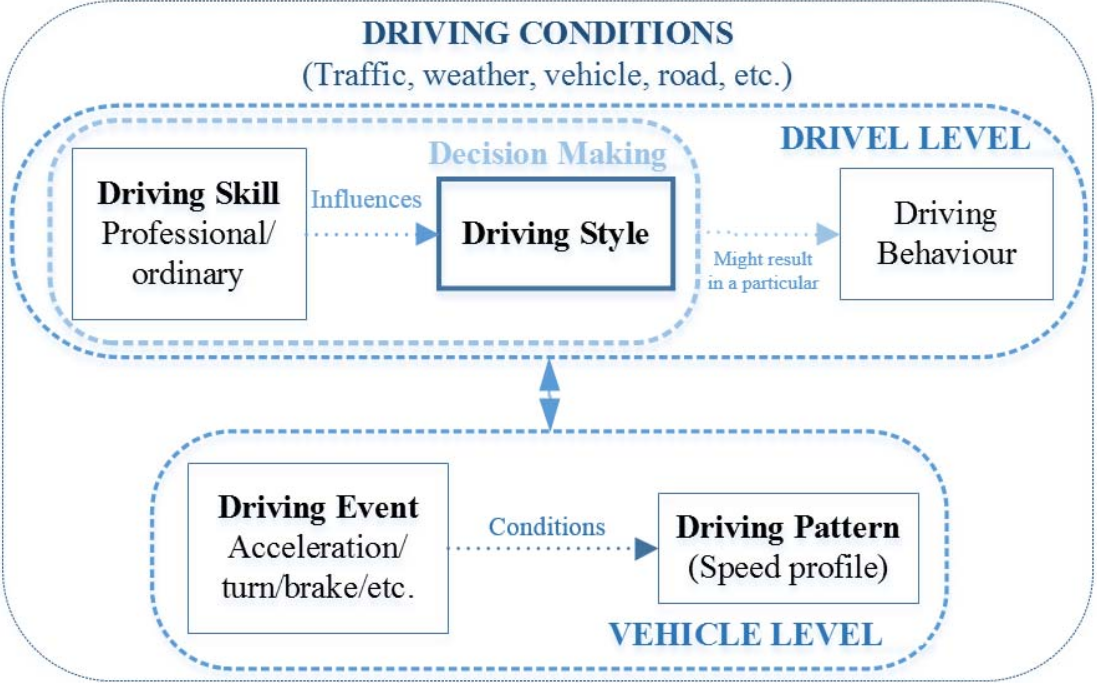
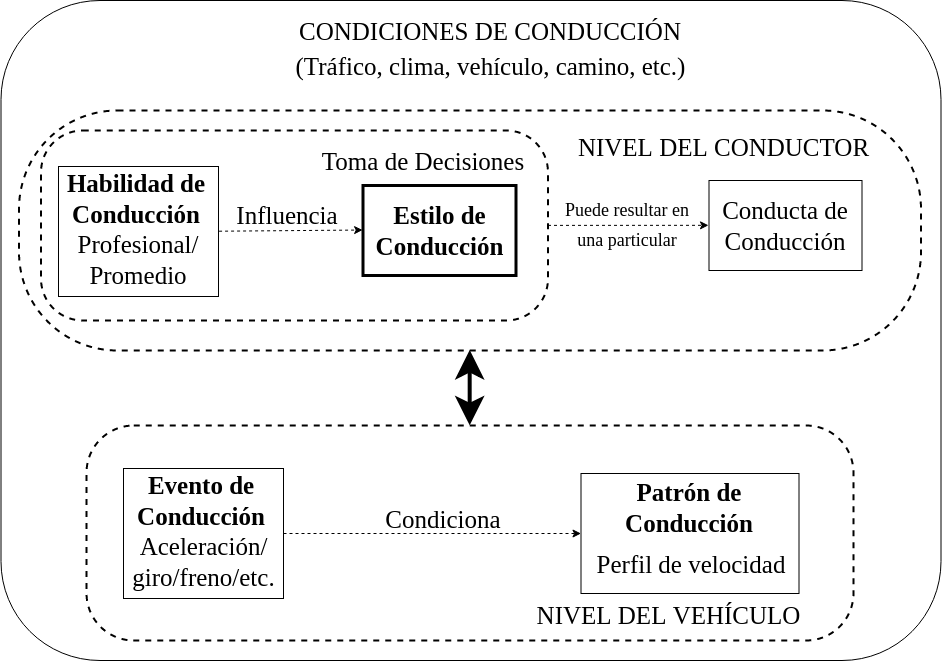
Intruduccón terminada y avance del estado del arte

diff --git a/Chapter2/chapter2.tex b/Chapter2/chapter2.tex
@@ -13,12 +13,12 @@
 
 \section{Términos relacionados con el estilo de conducción}
 
-El concepto de "Estilo de conducción" no tiene una definición estándar que sea aceptada en todo el mundo. Al contrario, este concepto involucra una serie de factores que aumentan su complejidad y complican su definición. Debido a esto se usarán los conceptos definidos en \cite{8002632}.
+El concepto de "Estilo de conducción" no tiene una definición estándar que sea aceptada en todo el mundo. Al contrario, este concepto involucra una serie de factores que aumentan su complejidad y complican su definición. Debido a esto se usarán los conceptos definidos por \citeauthor{8002632} \cite{8002632}.
 
 \begin{figure}[htbp!]
 \centering
 \includegraphics[width=0.8\textwidth]{Fig1}
-\caption[Terminología estilo de conducción]{Terminología relacionada con el estilo de conducción}
+\caption[Terminología estilo de conducción]{Terminología relacionada con el estilo de conducción \cite{8002632}}
 \label{fig:1}
 \end{figure}
 
@@ -26,7 +26,7 @@ Como se aprecia en la Fig~\ref{fig:1} \mynote{Traducir el gráfico} se entiende 
 
 De la misma manera, El patrón de conducción se define como el resultado de los eventos de conducción sujetos a condiciones de manejo, como el clima o el tipo de calzada. Este resultado se puede expresar como un perfil de velocidades. en el que están incluidos todos los datos que se pueden obtener partiendo de este perfil de velocidad, como por ejemplo: duración del viaje, velocidad promedio y demanda de potencia calculada.
 
-La habilidad de manejo, es la habilidad que posee el conductor para controlar el vehículo. Este concepto se usa para diferenciar entre un conductor experimentado o profesional de un conductor promedio.
+La habilidad de conducción, es la habilidad que posee el conductor para controlar el vehículo. Este concepto se usa para diferenciar entre un conductor experimentado o profesional de un conductor promedio.
 
 El estilo de conducción es más complejo de definir debido a que para algunos autores involucra factores subjetivos como la actitud del conductor, el humor o el cansancio. Para \citeauthor{6957822} \cite{6957822}, el estilo de conducción  es la manera en la que la tarea de conducción es realizada. Esto se traduce a la forma en la que el conductor opera el vehículo (Pedal de aceleración, timón, freno, etc.). Esto se diferencia de el patrón de conducción tan solo porque no se asocia con un recorrido en especifico sino con el conductor.
 
@@ -38,7 +38,8 @@ Se procederá a mostrar las implementaciones e investigaciones desarrolladas en 
 \subsection{Algoritmos basados en reglas}
 Dentro de esta categoría se encuentran algoritmos de clasificación basados en reglas que comprenden el uso de lógica difusa, lógica difusa adaptativa y algoritmos de agrupamiento.
 
-citeauthor{6957822} \cite{6957822} desarrollo un sistema de reconocimiento de patrones de manejo online usando lógica difusa. Este sistema esta implementado usando {\it Matlab/Simulink}  y es totalmente paramétrico. Se puede configurar para ser usado en distintos tipos de vehículos.
-El sistema dete
+\citeauthor{6957822} \cite{6957822} desarrollo un sistema de reconocimiento de patrones de manejo online usando lógica difusa. Este sistema esta implementado usando {\it Matlab/Simulink}  y es totalmente paramétrico. Se puede configurar para ser usado en distintos tipos de vehículos.
+El sistema determina a través de un Sistema de Navegación el tipo de calzada en el que se encuentra (Se distingue entre trocha, calles urbanas, carreteras pavimentadas y carreteras rurales). Esto lo realiza debido a que el tipo de calzada influencia en gran medida al estilo de conducción. Por ejemplo, en una trocha la mayoría de conductores manejarían a una velocidad suave para no dañar al vehículo.
+Usando Lógica Difusa se definieron 3 niveles de estilo de conducción: {\it Normal, Confortable y Deportivo}. Se probó el sistema en una simulación y se obtuvieron los siguientes resultados: 68\% de clasificaciones correctas y solo 2\% de clasificaciones incorrectas (El otro 30\% pertenece a clasificaciones "diferenciales" que daban un resultado cercano al real)
 
 

diff --git a/Introduccion/introduccion.tex b/Introduccion/introduccion.tex
@@ -5,9 +5,9 @@
 
 En la actualidad vivimos con una importante preocupación, la contaminación ambiental. Las consecuencias que podría generar en nuestro planeta pueden ser muy graves. Una de las principales causas de la contaminación ambiental es la emisión de gases de efecto invernadero. El CO\textsubscript{2} es uno de estos gases y es el resultado de una de las actividades más cotidianas del mundo, El transporte.
 
-Esta actividad está liderada por el uso de combustibles fósiles y aunque los autos eléctricos han empezado a ganar terreno en el sector automovilístico, estos aún representan tan solo el 1.3\% de las ventas totales de autos en el mundo. \mynote{Aquí falta poner la referencia} El transporte se registró como la fuente mas grande de emisión de CO\textsubscript{2} en el 2016 en Europa y Estados Unidos con el 27\% y 28\% de las emisiones de gases de efectos invernadero respectivamente.
+Esta actividad está liderada por el uso de combustibles fósiles y aunque los autos eléctricos han empezado a ganar terreno en el sector automovilístico, estos aún representan tan solo el 1.34\% de las ventas totales de autos en el mundo \cite{website:EV-sales}. El transporte se registró como la fuente mas grande de emisión de CO\textsubscript{2} en el 2016 en Europa y Estados Unidos con el 27\% y 28\% de las emisiones de gases de efectos invernadero respectivamente.
 
-Por otro lado, en el Perú la seguridad "vial" \mynote{Revisar este término} es un aspecto que preocupa a muchos peruanos. En el año 2017 murieron un total de 772 personas debido a accidentes de tránsito\mynote{Citar el comercio}. Las mayores causas de los accidentes de tránsito en el Perú son el exceso de velocidad (32\%) y la imprudencia del conductor (28\%) \mynote{citar aquí al reporte estadístico PNP}. Estas dos causas son errores humanos que tienen mucha relación con el estilo de manejo de los conductores. Cada conductor puede ejecutar una misma maniobra de una manera distinta (más o menos temeraria) y la temeraridad en las maniobras no solo impacta en la seguridad vial, sino también en el consumo de combustible. Esto convierte al estilo de conducción de un usuario en un factor relevante para la seguridad vial y para el cuidado del medio ambiente.
+Por otro lado, en el Perú la seguridad vial es un aspecto que preocupa a muchos peruanos. En el año 2017 murieron un total de 772 personas debido a accidentes de tránsito \cite{website:El-comercio}. Las mayores causas de los accidentes de tránsito en el Perú son el exceso de velocidad (32\%) y la imprudencia del conductor (28\%) \cite{website:PNP-accidentes}. Estas dos causas son errores humanos que tienen mucha relación con el estilo de manejo de los conductores. Cada conductor puede ejecutar una misma maniobra de una manera distinta (más o menos temeraria) y la temeridad en las maniobras no solo impacta en la seguridad vial, sino también en el consumo de combustible. Esto convierte al estilo de conducción de un usuario en un factor relevante para la seguridad vial y para el cuidado del medio ambiente.
 
 La presente tesis desarrollará un sistema que sea capaz de caracterizar el estilo de conducción de un usuario y  relacione ese estilo con el consumo de combustible. Se propondrá un estilo de conducción ideal que sea el objetivo a alcanzar y se diseñará un sistema de feedback que lleve al conductor a alcanzar el objetivo.
 

diff --git a/Chapter1/chapter1.tex b/Chapter1/chapter1.tex
@@ -15,6 +15,12 @@
 %********************************** %First Section  **************************************
 \section{Motivación General}
 
+En un futuro, se espera que la mayoría de los autos sean autónomos, probablemente eléctricos y que el manejo del sistema de transporte este interconectado y sea inteligente. Para lograr eso se necesita un entendimiento profundo del comportamiento humano a la hora de realizar la tarea de conducir.
+
+Este conocimiento no sólo será útil en el futuro, sino que en el presente nos ayudaría a tener vehículos que sean conducido de una manera eficiente, que generen menos emisiones dañinas para el medio ambiente, y de una manera más segura, reduciendo la cantidad de accidentes de tránsito. 
+
+Se pueden aprovechar las tecnologías 
+
 
 
 \section{Motivación Específica y Propuesta de Solución}
